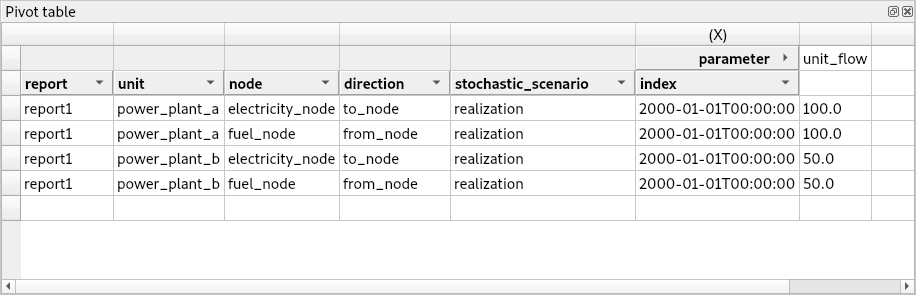
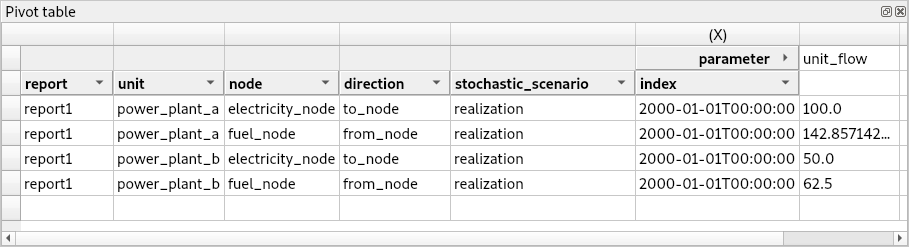
Update simple system tutorial

diff --git a/docs/source/simple_system.rst b/docs/source/simple_system.rst
@@ -33,15 +33,15 @@ Model assumptions
 
 - Two power plants take fuel from a source node and release electricity to another node in order to supply a demand.
 
-- Power plant 'a' has a capacity of 100 MWh and a variable operating cost of 25 euro/MWh.
+- Power plant 'a' has a capacity of 100 MWh, a variable operating cost of 25 euro/fuel unit, and generates 0.7 MWh of electricity
+  per unit of fuel.
 
-- Power plant 'b' has a capacity of 200 MWh and a variable operating cost of 50 euro/MWh.
+- Power plant 'b' has a capacity of 200 MWh, a variable operating cost of 50 euro/fuel unit, and generates 0.8 MWh of electricity
+  per unit of fuel.
 
 - The demand at the electricity node is 150 MWh.
 
 - The fuel node is able to provide infinite energy.
-
-- Both power plants convert fuel to electricity at a 1:1 ratio.
 
 
 .. image:: img/simple_system_schematic.png
@@ -86,7 +86,7 @@ Setting up project
 
 #. Select **File -> New project...** from Spine Toolbox main menu.
    Browse to a location where you want to create the project and create a new folder for it,
-   called e.g. ‘Case Study A5’, and then click **Open**.
+   called e.g. ’SimpleSystem’, and then click **Open**.
 
 #. Drag the *Data Store* icon |ds_icon| from the tool bar and drop it into the 
    *Design View*. This will open the *Add Data Store* dialog. 
@@ -200,6 +200,17 @@ Creating objects
 .. note:: In SpineOpt, nodes are points where an energy balance takes place, whereas units are energy conversion
    devices that can take energy from nodes, and release energy to nodes.
 
+#. Right click on the `output` class, and select *Add objects* from the context menu.
+   The *Add objects* dialog will pop up.
+
+#. Enter `unit_flow` under *object name* as in the image below, then press *Ok*. This will create one object
+   of class `unit`, called `unit_flow`.
+
+   .. image:: img/simple_system_add_output.png
+      :align: center
+
+.. note:: In SpineOpt, outputs represent optimization variables that can be written to the output database as part of a report.
+
 .. note:: To modify an object after you enter it, right click on it and select **Edit...** from the context menu.
 
 
@@ -227,6 +238,16 @@ Establishing relationships
    .. image:: img/simple_system_add_unit__to_node_relationships.png
       :align: center
 
+#. Right click on the `report__output` class, and select *Add relationships* from the context menu.
+   The *Add relationships* dialog will pop up.
+
+#. Enter `report1` under *report*, and `unit_flow` under *output*, as seen in the image below; then press *Ok*.
+   This will tell SpineOpt to write the value of the `unit_flow` optimization variable to the output database,
+   as part of `report1`.
+
+   .. image:: img/simple_system_add_report__output_relationships.png
+      :align: center
+
 
 .. _Specifying object parameter values:
 
@@ -237,16 +258,17 @@ Specifying object parameter values
 
 #. Locate the *Object parameter* table (typically at the top-center).
 
-#. Select the `demand` parameter and the `Base` alternative, and enter the value `100` as seen in the image below.
+#. In the *Object parameter* table (typically at the top-center),
+   select the `demand` parameter and the `Base` alternative, and enter the value `100` as seen in the image below.
    This will establish that there's a demand of '100' at the electricity node.
 
    .. image:: img/simple_system_electricity_demand.png
       :align: center
 
-#. Select `fuel_node` in the *Object tree*, and come back to the *Object parameter* table.
+#. Select `fuel_node` in the *Object tree*.
 
-#. Select the `balance_type` parameter and the `Base` alternative, and enter the value `balance_type_none`
-   as seen in the image below.
+#. In the *Object parameter* table, select the `balance_type` parameter and the `Base` alternative,
+   and enter the value `balance_type_none` as seen in the image below.
    This will establish that the fuel node is not balanced, and thus provide as much fuel as needed.
 
    .. image:: img/simple_system_fuel_balance_type.png
@@ -260,28 +282,48 @@ Specifying relationship parameter values
 
 #. In *Relationship tree*, expand the `unit__from_node` class and select `power_plant_a | fuel_node`.
 
-#. Locate the *Relationship parameter* table (typically at the bottom-center).
+#. In the *Relationship parameter* table (typically at the bottom-center),
+   select the `vom_cost` parameter and the `Base` alternative, and enter the value `25` as seen in the image below.
+   This will set the operating cost for `power_plant_a`.
 
-#. As seen in the image below, select the `unit_capacity` parameter and the `Base` alternative, and enter the value `100`;
-   then select the `vom_cost` parameter and the `Base` alternative, and enter the value `25`.
-   This will set the operation parameters for `power_plant_a`.
-
-   .. image:: img/simple_system_power_plant_a_capacity_vom_cost.png
+   .. image:: img/simple_system_power_plant_a_vom_cost.png
       :align: center
 
-#. Select `power_plant_b | fuel_node` in the *Relationship tree*, and come back to the *Relationship parameter* table.
+#. Select `power_plant_b | fuel_node` in the *Relationship tree*.
 
-#. As seen in the image below, select the `unit_capacity` parameter and the `Base` alternative, and enter the value `200`;
-   then select the `vom_cost` parameter and the `Base` alternative, and enter the value `50`.
-   This will set the operation parameters for `power_plant_b`.
+#. In the *Relationship parameter* table, select the `vom_cost` parameter and the `Base` alternative,
+   and enter the value `50` as seen in the image below.
+   This will set the operating cost for `power_plant_b`.
 
-   .. image:: img/simple_system_power_plant_b_capacity_vom_cost.png
+   .. image:: img/simple_system_power_plant_b_vom_cost.png
+      :align: center
+
+#. In *Relationship tree*, expand the `unit__to_node` class and select `power_plant_a | electricity_node`.
+
+#. In the *Relationship parameter* table, select the `unit_capacity` parameter and the `Base` alternative,
+   and enter the value `100` as seen in the image below.
+   This will set the capacity for `power_plant_a`.
+
+   .. image:: img/simple_system_power_plant_a_capacity.png
+      :align: center
+
+#. Select `power_plant_b | electricity_node` in the *Relationship tree*.
+
+#. In the *Relationship parameter* table, select the `unit_capacity` parameter and the `Base` alternative,
+   and enter the value `200` as seen in the image below.
+   This will set the capacity for `power_plant_b`.
+
+   .. image:: img/simple_system_power_plant_b_capacity.png
       :align: center
 
 #. In *Relationship tree*, select the `unit__node__node` class, and come back to the *Relationship parameter* table.
 
-#. Edit the cells as you just learned, so it looks like the image below.
-   This will set the conversion ratio from fuel to electricity for both power plants to `1`, or '100% efficiency'.
+#. In the *Relationship parameter* table, select `power_plant_a | electricity_node | fuel_node` under *object name list*,
+   `fix_ratio_out_in_unit_flow` under *parameter name*, `Base` under *alternative name*, and enter `0.7` under *value*.
+   Repeat the operation for `power_plant_b`, but this time enter `0.8` under *value*.
+   This will set the conversion ratio from fuel to electricity for `power_plant_a` and `power_plant_b` to `0.7` and `0.8`,
+   respectively.
+   It should like the image below.
 
    .. image:: img/simple_system_fix_ratio_out_in_unit_flow.png
       :align: center
